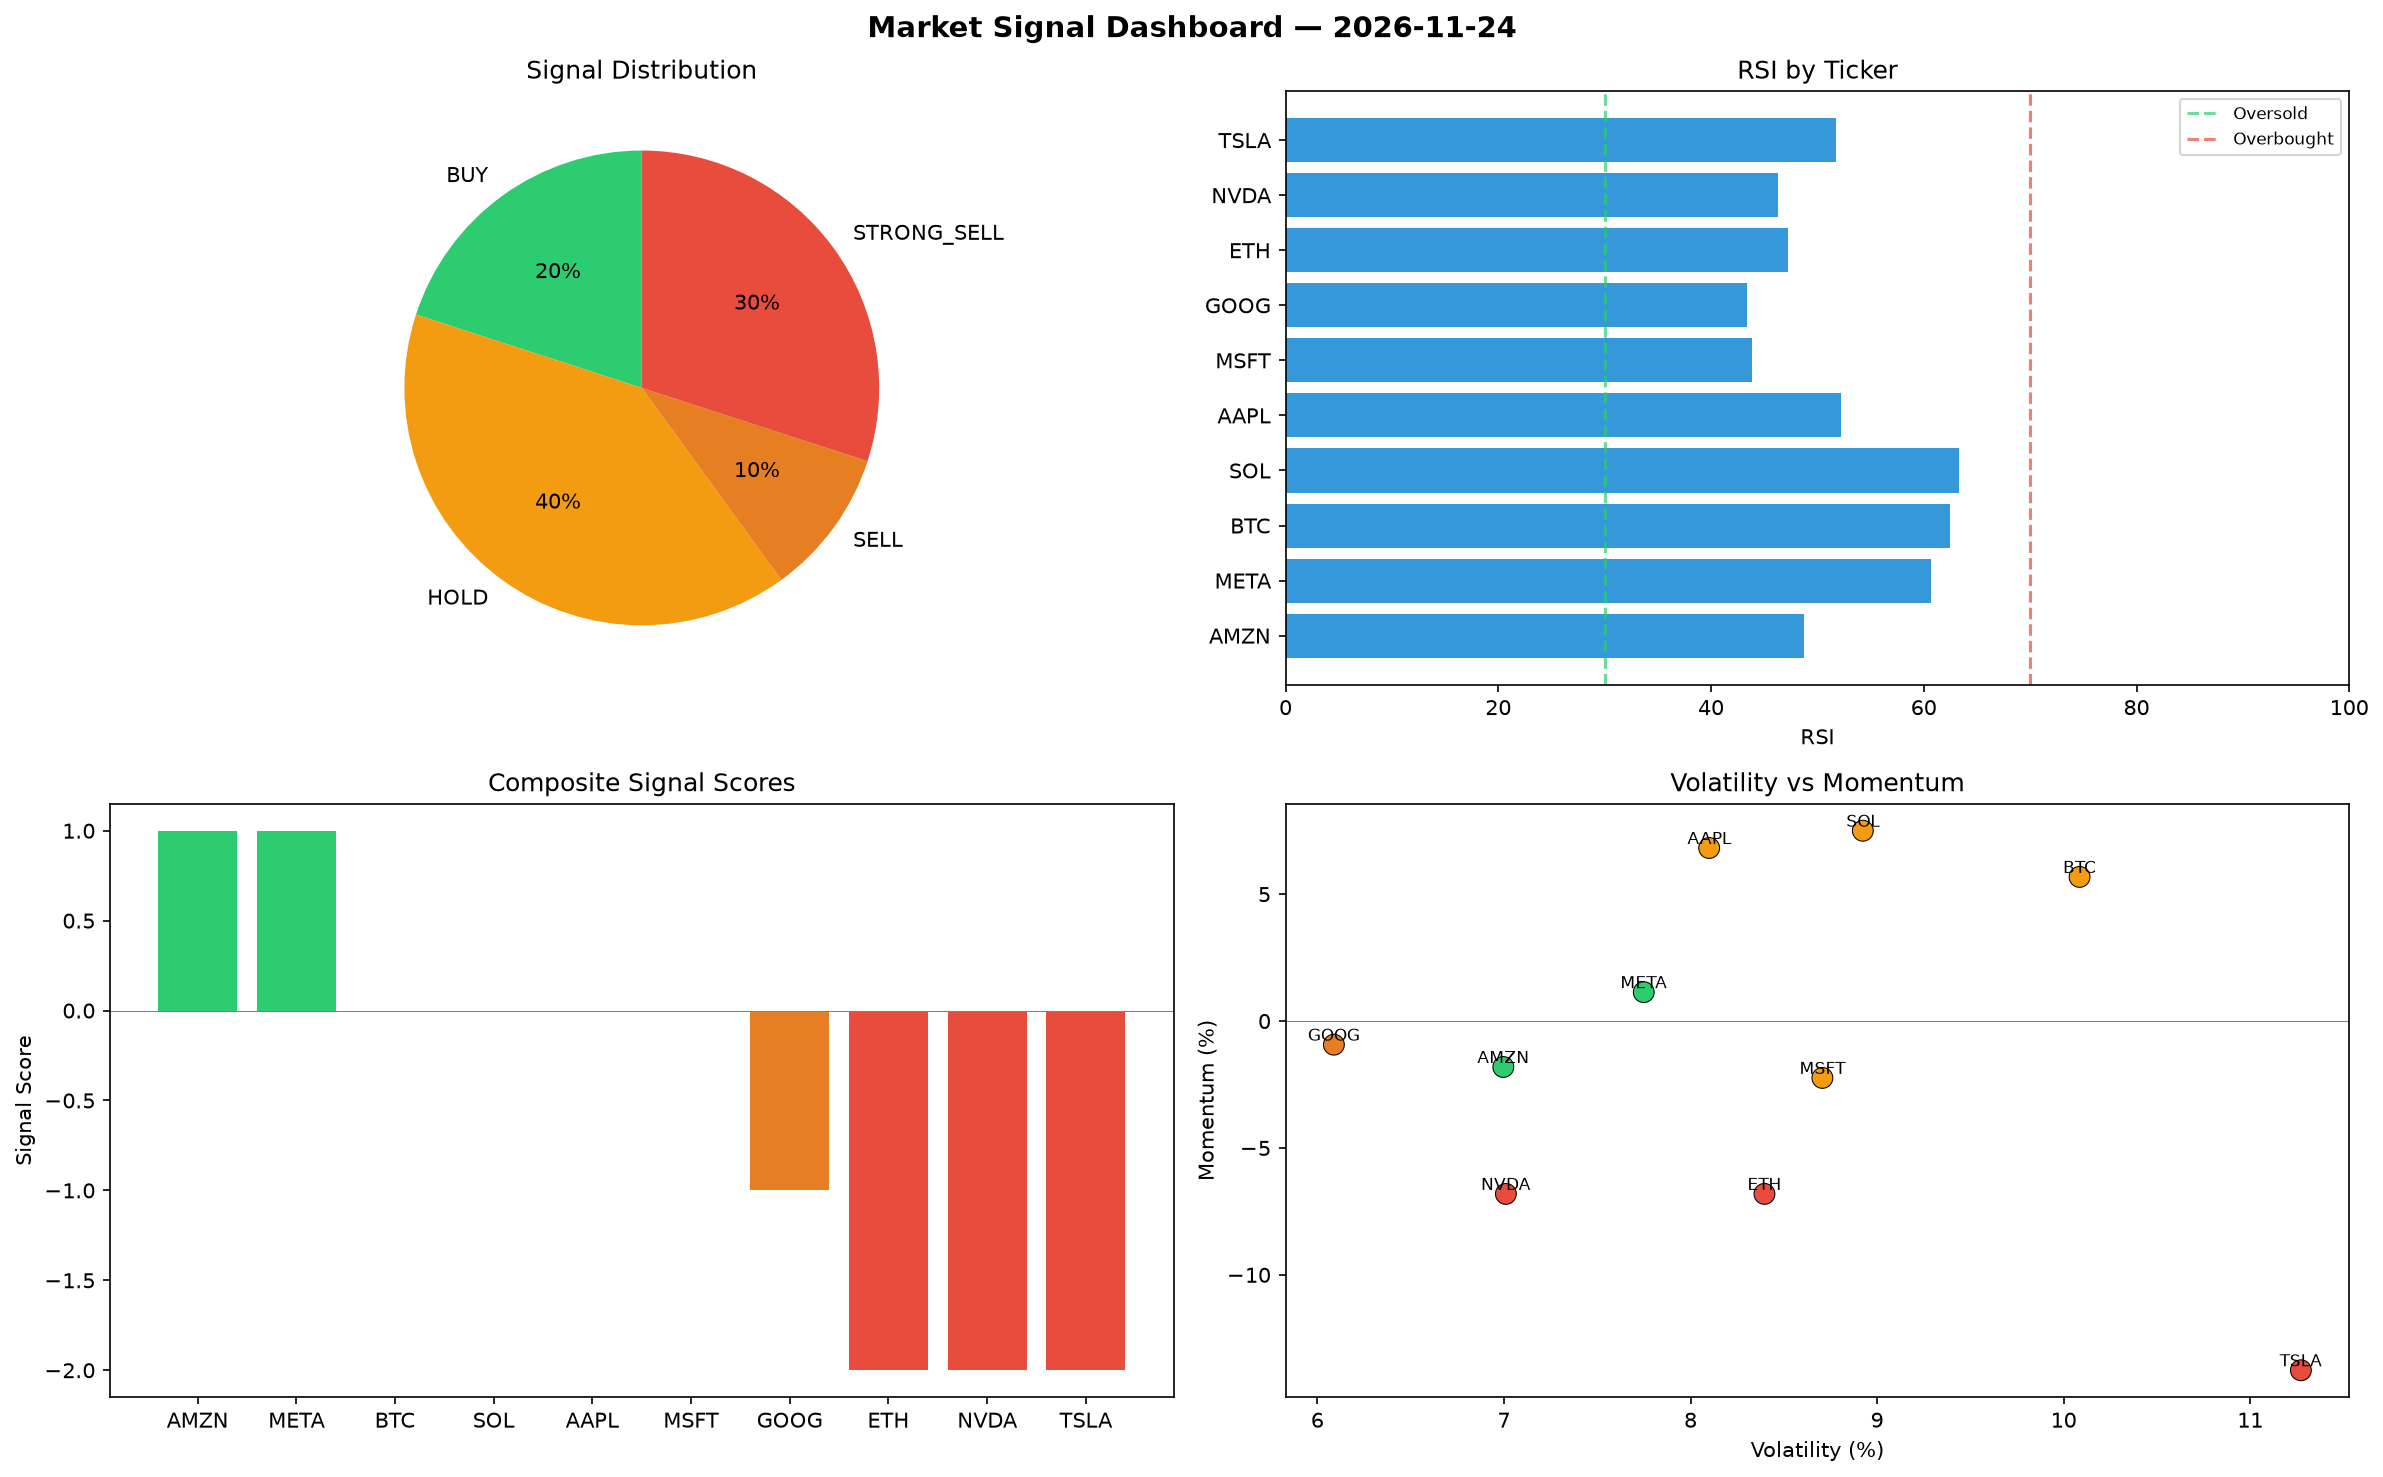
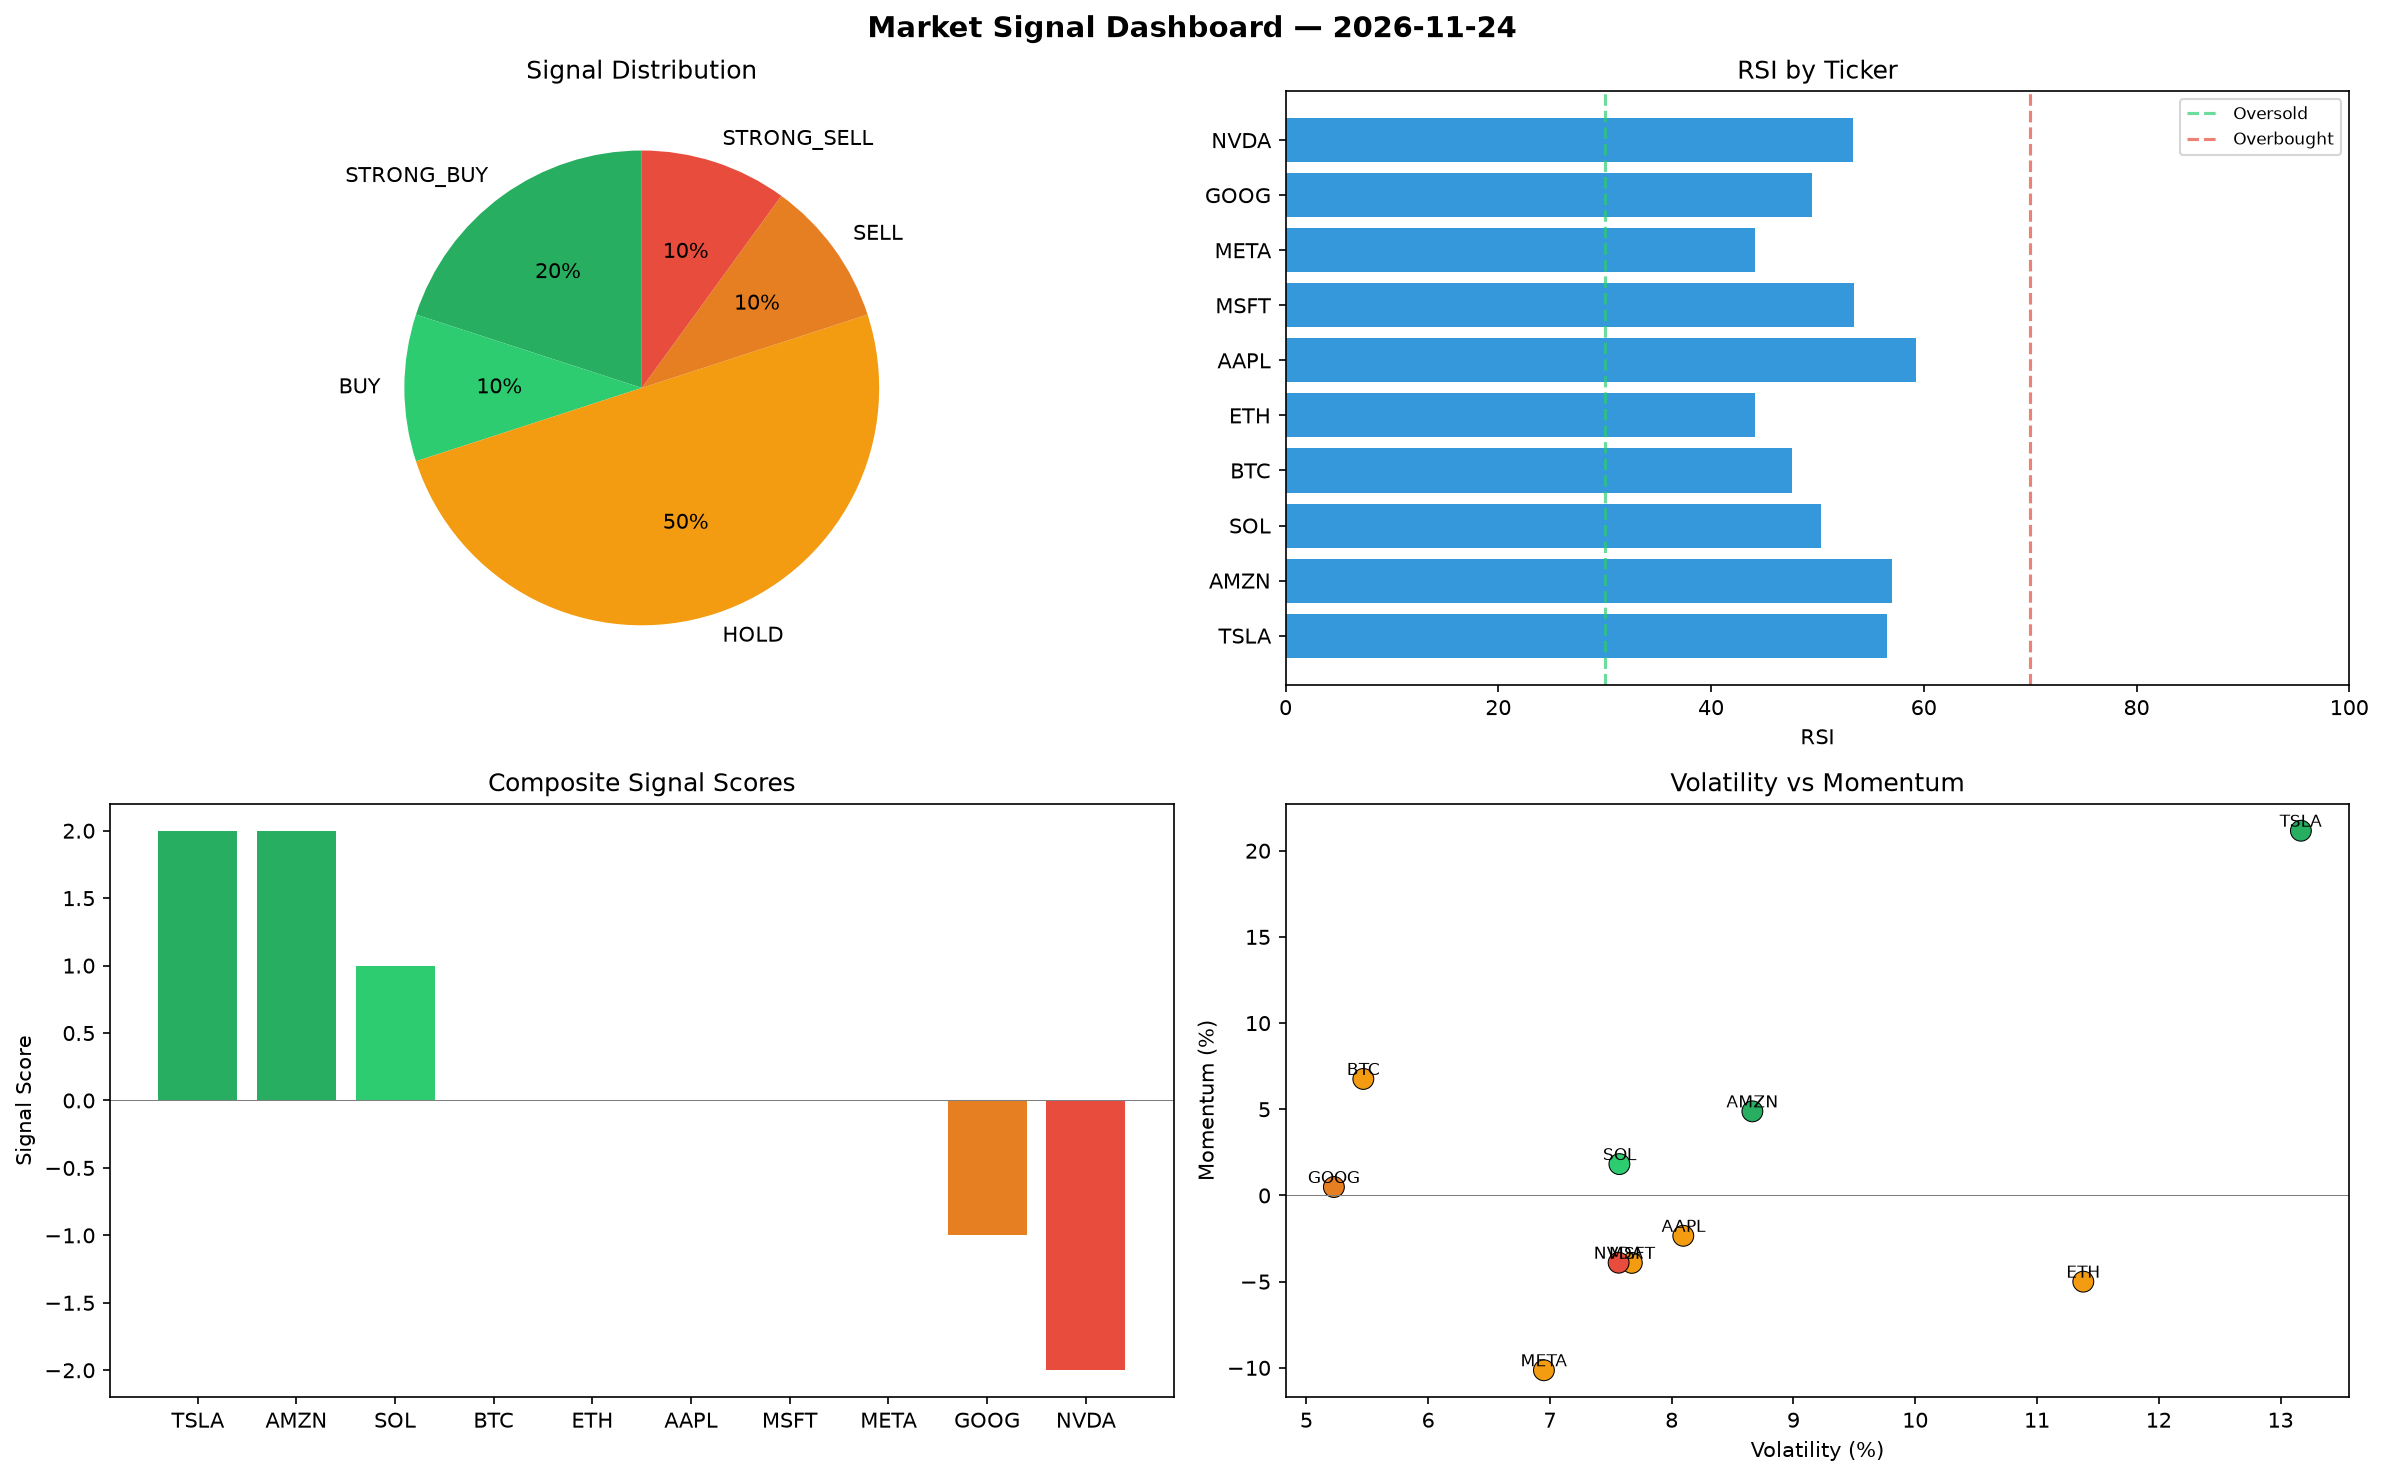
automated-bots: market signals 2026-11-24T23:35

diff --git a/logs/2026-11-24.md b/logs/2026-11-24.md
@@ -1,6 +1,6 @@
 # Market Signal Report — 2026-11-24
 
-**Run ID:** `4791245b9e` | **Buy:** 2 | **Sell:** 4 | **Hold:** 4
+**Run ID:** `efd23112b6` | **Buy:** 3 | **Sell:** 2 | **Hold:** 5
 
 ![Dashboard](2026-11-24_dashboard.png)
 
@@ -8,28 +8,28 @@
 
 | Ticker | Price | Signal | Score | RSI | Momentum | Confidence |
 |--------|-------|--------|-------|-----|----------|------------|
-| AMZN | $88.78 | **BUY** | 1 | 48.73 | -0.0181 | 0.25 |
-| META | $2888.85 | **BUY** | 1 | 60.72 | 0.0114 | 0.25 |
-| BTC | $464.65 | **HOLD** | 0 | 62.43 | 0.0568 | 0.0 |
-| SOL | $5265.17 | **HOLD** | 0 | 63.32 | 0.075 | 0.0 |
-| AAPL | $4151.06 | **HOLD** | 0 | 52.24 | 0.0682 | 0.0 |
-| MSFT | $1395.54 | **HOLD** | 0 | 43.82 | -0.0224 | 0.0 |
-| GOOG | $3674.06 | **SELL** | -1 | 43.42 | -0.0093 | 0.25 |
-| ETH | $3314.14 | **STRONG_SELL** | -2 | 47.22 | -0.0681 | 0.5 |
-| NVDA | $3963.11 | **STRONG_SELL** | -2 | 46.29 | -0.0681 | 0.5 |
-| TSLA | $3221.9 | **STRONG_SELL** | -2 | 51.79 | -0.1376 | 0.5 |
+| TSLA | $5094.03 | **STRONG_BUY** | 2 | 56.54 | 0.2116 | 0.5 |
+| AMZN | $3811.93 | **STRONG_BUY** | 2 | 57.01 | 0.0488 | 0.5 |
+| SOL | $4515.48 | **BUY** | 1 | 50.38 | 0.0182 | 0.25 |
+| BTC | $612.55 | **HOLD** | 0 | 47.58 | 0.0676 | 0.0 |
+| ETH | $4835.42 | **HOLD** | 0 | 44.12 | -0.05 | 0.0 |
+| AAPL | $2548.45 | **HOLD** | 0 | 59.24 | -0.0234 | 0.0 |
+| MSFT | $3612.03 | **HOLD** | 0 | 53.41 | -0.0391 | 0.0 |
+| META | $852.45 | **HOLD** | 0 | 44.17 | -0.1014 | 0.0 |
+| GOOG | $51.7 | **SELL** | -1 | 49.51 | 0.0049 | 0.25 |
+| NVDA | $4224.68 | **STRONG_SELL** | -2 | 53.3 | -0.039 | 0.5 |
 
 ## Delta vs Yesterday
 
 | Ticker | Today | Yesterday | Price Change | Signal Changed |
 |--------|-------|-----------|-------------|----------------|
-| AMZN | BUY | STRONG_BUY | 📉 -90.4% | ⚠ YES |
-| META | BUY | BUY | 📉 -33.14% | — |
-| BTC | HOLD | STRONG_SELL | 📉 -87.81% | ⚠ YES |
-| SOL | HOLD | STRONG_SELL | 📈 75.18% | ⚠ YES |
-| AAPL | HOLD | STRONG_BUY | 📈 52.88% | ⚠ YES |
-| MSFT | HOLD | SELL | 📈 166.44% | ⚠ YES |
-| GOOG | SELL | HOLD | 📉 -24.17% | ⚠ YES |
-| ETH | STRONG_SELL | STRONG_BUY | 📉 -30.52% | ⚠ YES |
-| NVDA | STRONG_SELL | STRONG_BUY | 📉 -6.14% | ⚠ YES |
-| TSLA | STRONG_SELL | HOLD | 📈 35.05% | ⚠ YES |
+| TSLA | STRONG_BUY | HOLD | 📈 113.53% | ⚠ YES |
+| AMZN | STRONG_BUY | STRONG_BUY | 📈 312.29% | — |
+| SOL | BUY | STRONG_SELL | 📈 50.24% | ⚠ YES |
+| BTC | HOLD | STRONG_SELL | 📉 -83.93% | ⚠ YES |
+| ETH | HOLD | STRONG_BUY | 📈 1.37% | ⚠ YES |
+| AAPL | HOLD | STRONG_BUY | 📉 -6.14% | ⚠ YES |
+| MSFT | HOLD | SELL | 📈 589.61% | ⚠ YES |
+| META | HOLD | BUY | 📉 -80.27% | ⚠ YES |
+| GOOG | SELL | HOLD | 📉 -98.93% | ⚠ YES |
+| NVDA | STRONG_SELL | STRONG_BUY | 📈 0.06% | ⚠ YES |
